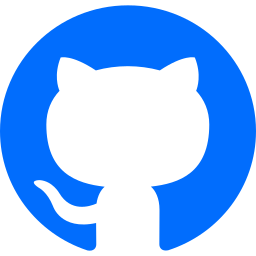
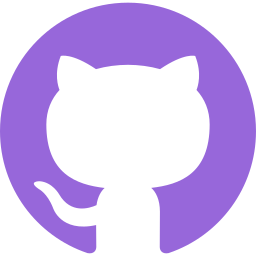
Updated theme

diff --git a/lib/modules/article_section/widgets/article_item_widget.dart b/lib/modules/article_section/widgets/article_item_widget.dart
@@ -25,7 +25,7 @@ class _ArticleItemWidgetState extends State<ArticleItemWidget> {
       cursor: SystemMouseCursors.click,
       onEnter: (_) {
         setState(() {
-          headlineColor = ColorConstants.backgroundSecondary;
+          headlineColor = ColorConstants.backgroundPrimary;
         });
       },
       onExit: (_) {
@@ -34,7 +34,7 @@ class _ArticleItemWidgetState extends State<ArticleItemWidget> {
         });
       },
       child: Container(
-        margin: EdgeInsets.symmetric(vertical: SpacingConstants.spacing20),
+        margin: EdgeInsets.only(top: SpacingConstants.spacing40),
         padding: EdgeInsets.symmetric(
           vertical: SpacingConstants.spacing30,
           horizontal: SpacingConstants.spacing40,

diff --git a/lib/modules/common/colors/color_constants.dart b/lib/modules/common/colors/color_constants.dart
@@ -1,13 +1,11 @@
 import 'package:flutter/material.dart';
 
 final class ColorConstants {
-  static const backgroundPrimary = Color(0xFF016DFD);
-  static const backgroundSecondary = Color(0xFF019CFE);
-  static const backgroundTertiary = Color(0xFF00CCFF);
+  static const backgroundPrimary = Color(0xFF9767DA);
+  static const backgroundSecondary = Color(0xFF5D4B9E);
   static const captionText = Color(0xFFBDBDBD);
   static const primaryGrey = Color(0xFF212529);
   static const secondaryGrey = Color(0xFF2B3035);
   static const activeGreenPrimary = Color(0xFF34C834);
   static const activeGreenSecondary = Color(0xFF061806);
-  static const borderBlue = Color(0xFF294973);
 }

diff --git a/lib/modules/work_section/widgets/work_item_widget.dart b/lib/modules/work_section/widgets/work_item_widget.dart
@@ -16,14 +16,14 @@ class WorkItemWidget extends StatelessWidget {
   @override
   Widget build(BuildContext context) {
     return Container(
-      margin: EdgeInsets.all(SpacingConstants.spacing30),
+      margin: EdgeInsets.only(top: SpacingConstants.spacing40),
       padding: EdgeInsets.symmetric(
         vertical: SpacingConstants.spacing30,
         horizontal: SpacingConstants.spacing40,
       ),
       decoration: BoxDecoration(
         border: Border.all(
-          color: ColorConstants.borderBlue,
+          color: ColorConstants.backgroundPrimary,
           width: 2,
         ),
         color: ColorConstants.secondaryGrey,

diff --git a/lib/modules/root_page/view/root_page.dart b/lib/modules/root_page/view/root_page.dart
@@ -44,7 +44,7 @@ class _RootPageState extends State<RootPage>
                 end: Alignment.bottomCenter,
                 colors: [
                   ColorConstants.backgroundPrimary,
-                  ColorConstants.backgroundTertiary,
+                  ColorConstants.backgroundSecondary,
                 ],
               ),
             ),

diff --git a/web/index.html b/web/index.html
@@ -24,7 +24,6 @@
   <meta name="apple-mobile-web-app-capable" content="yes">
   <meta name="apple-mobile-web-app-status-bar-style" content="black">
   <meta name="apple-mobile-web-app-title" content="portfolio">
-  <link rel="apple-touch-icon" href="icons/Icon-192.png">
 
   <title>portfolio</title>
   <link rel="manifest" href="manifest.json">
